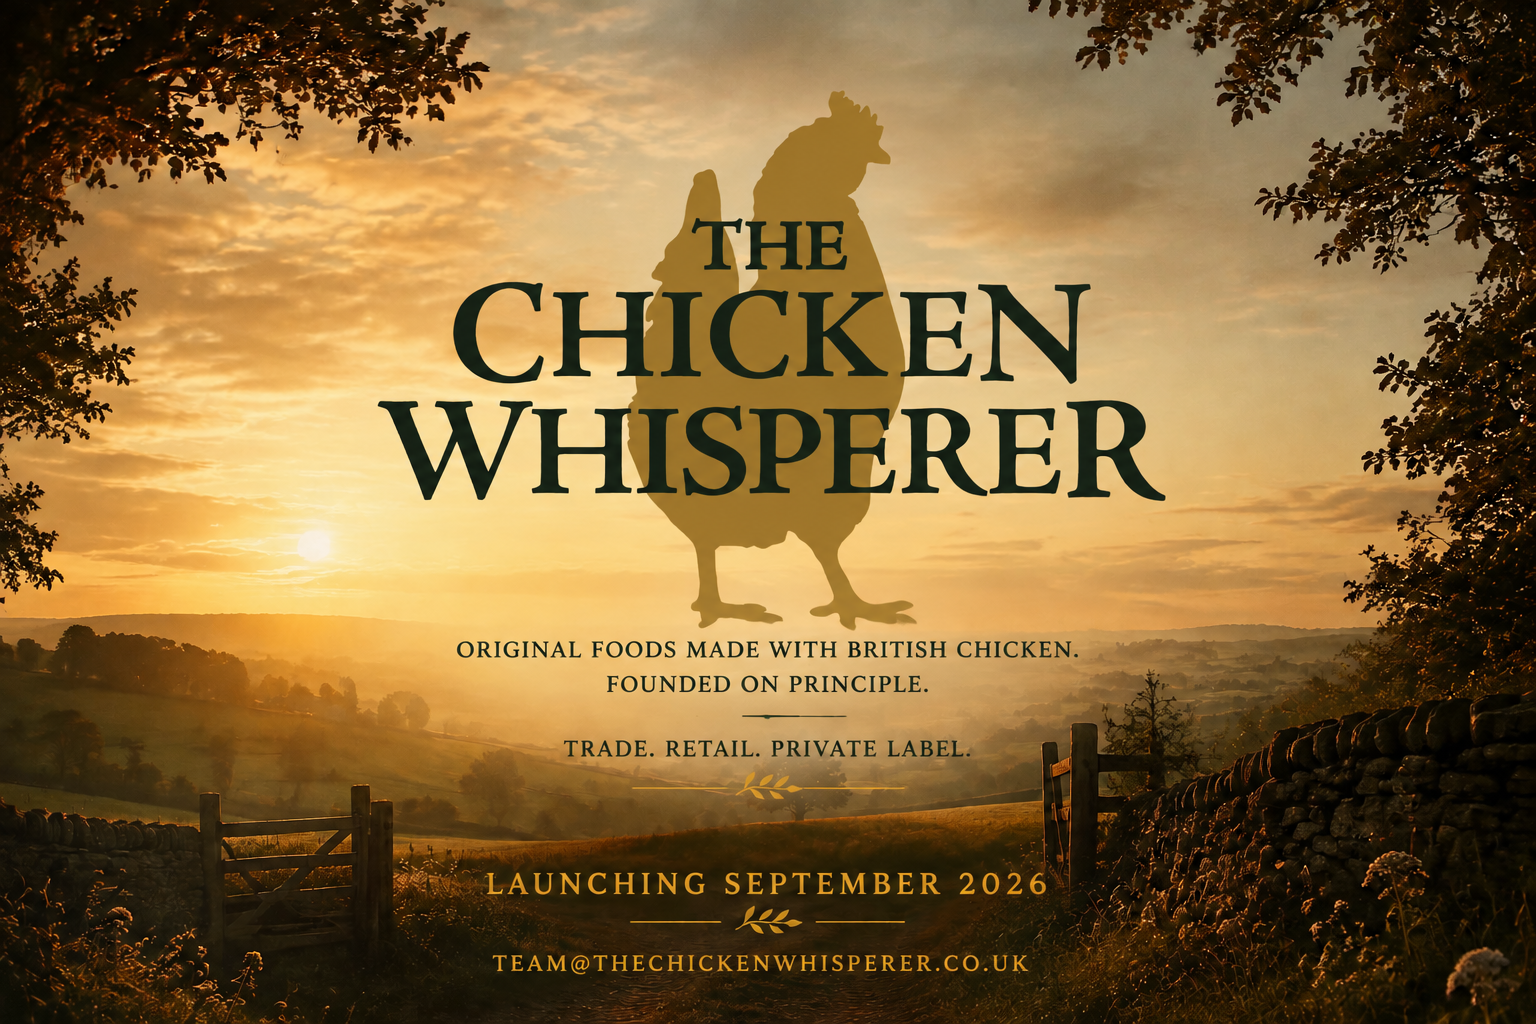
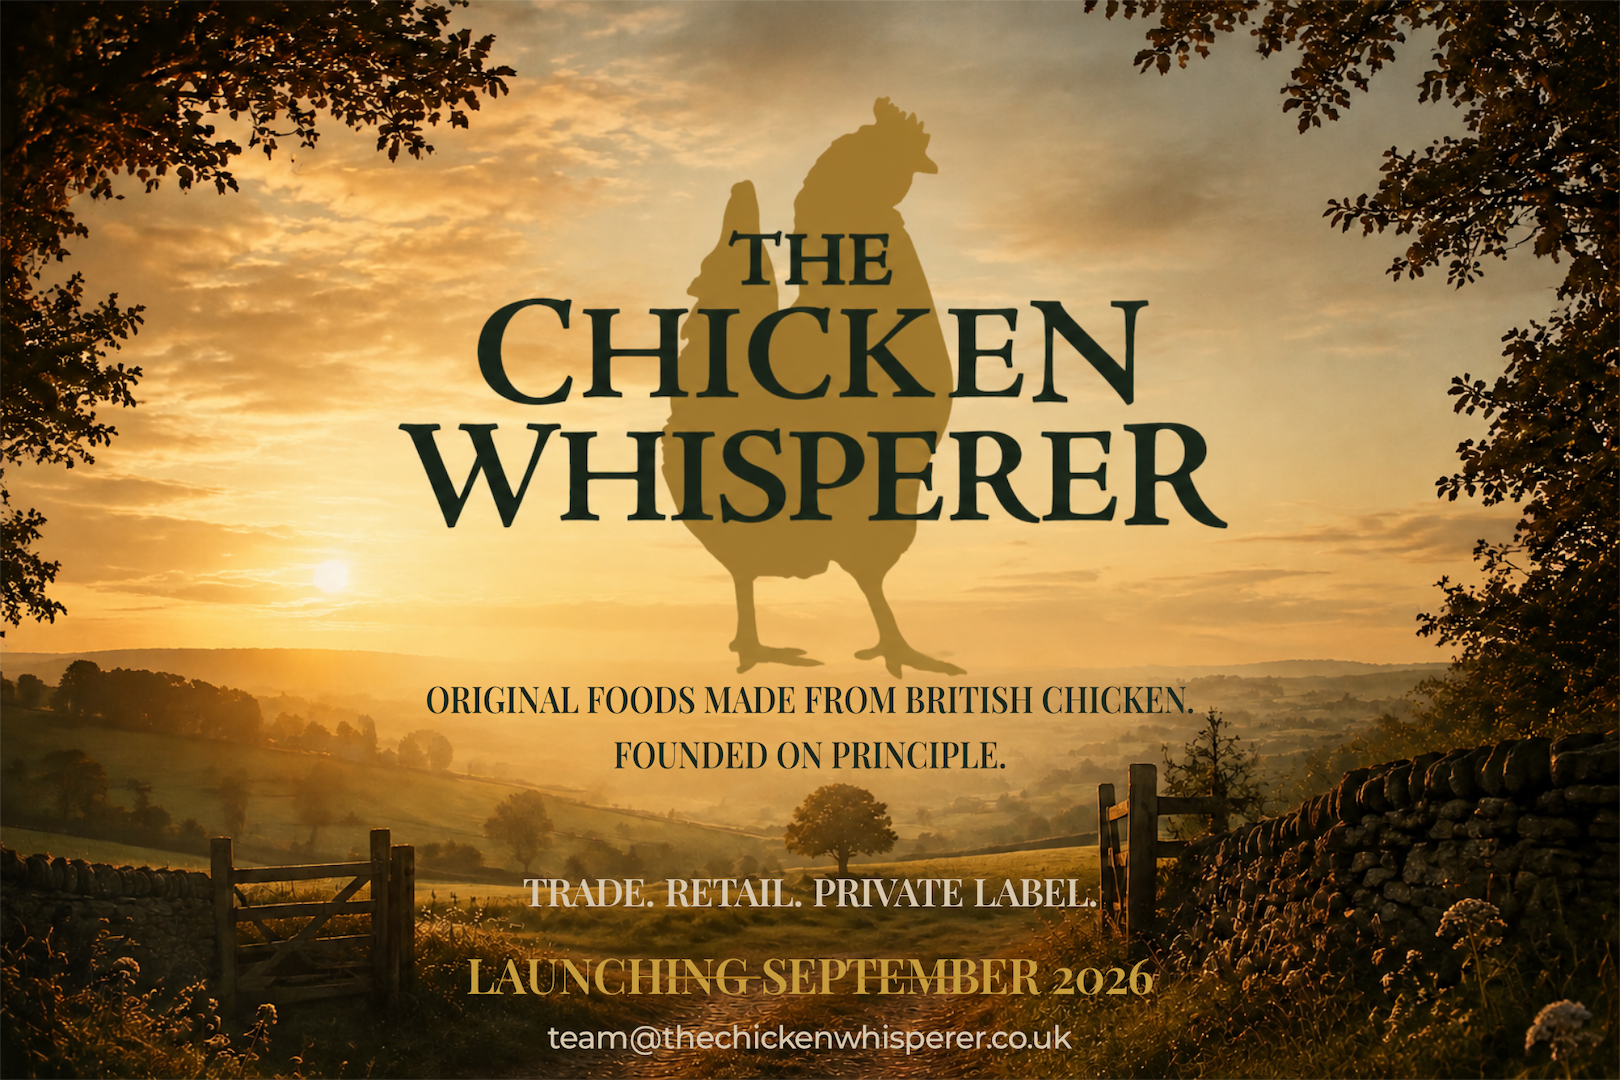
**New artwork live, full-bleed and untouched — complete** - Your new poster now fills the whole screen edge to edge on desktop with no blurred sides, and the file is used exactly as you uploaded it — no compression, no resizing, full original quality - The fit is anchored to the bottom, so the launc

diff --git a/frontend/src/App.js b/frontend/src/App.js
@@ -65,7 +65,7 @@ function App() {
             alt="The Chicken Whisperer — Original foods made with British chicken. Launching September 2026."
             data-testid="hero-image"
             style={{ x: imgX, y: imgY }}
-            className="h-full w-full object-contain will-change-transform"
+            className="hero-fit h-full w-full will-change-transform"
             draggable={false}
           />
         </motion.div>

diff --git a/frontend/src/App.css b/frontend/src/App.css
@@ -1,3 +1,15 @@
+.hero-fit {
+  object-fit: cover;
+  object-position: center bottom;
+}
+
+@media (max-aspect-ratio: 4/5), (min-aspect-ratio: 19/10) {
+  .hero-fit {
+    object-fit: contain;
+    object-position: center;
+  }
+}
+
 .vignette {
   background:
     radial-gradient(120% 90% at 50% 42%, transparent 55%, rgba(6, 8, 5, 0.42) 100%),
